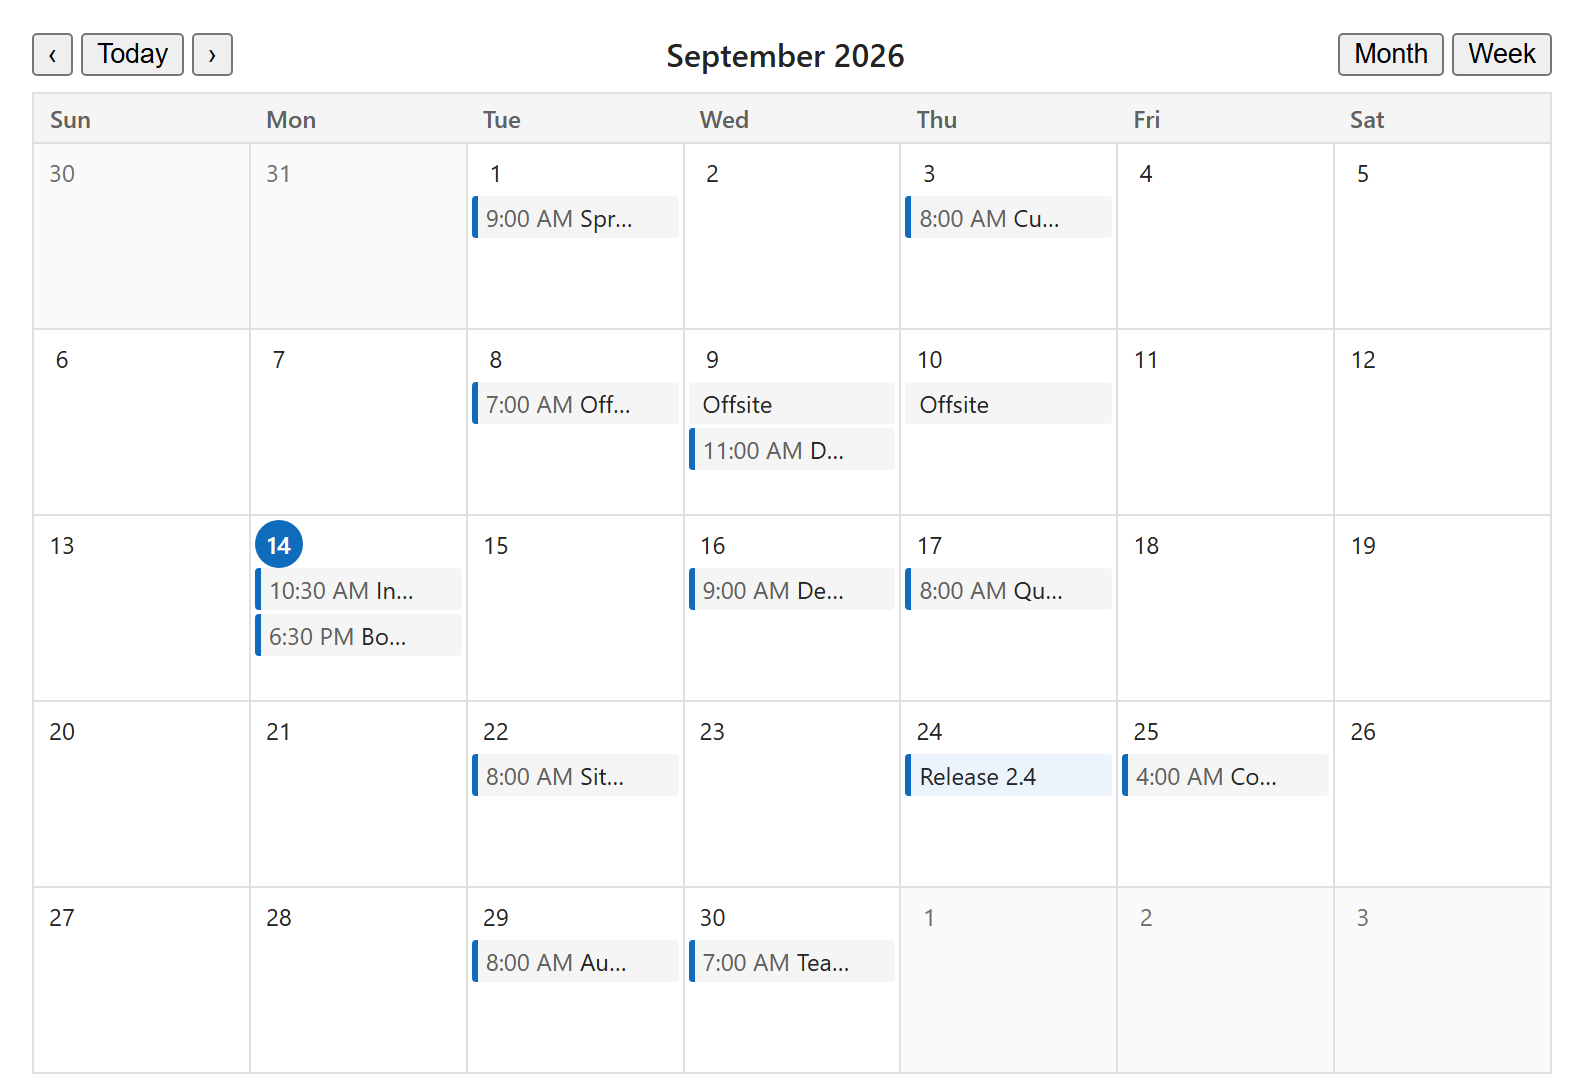
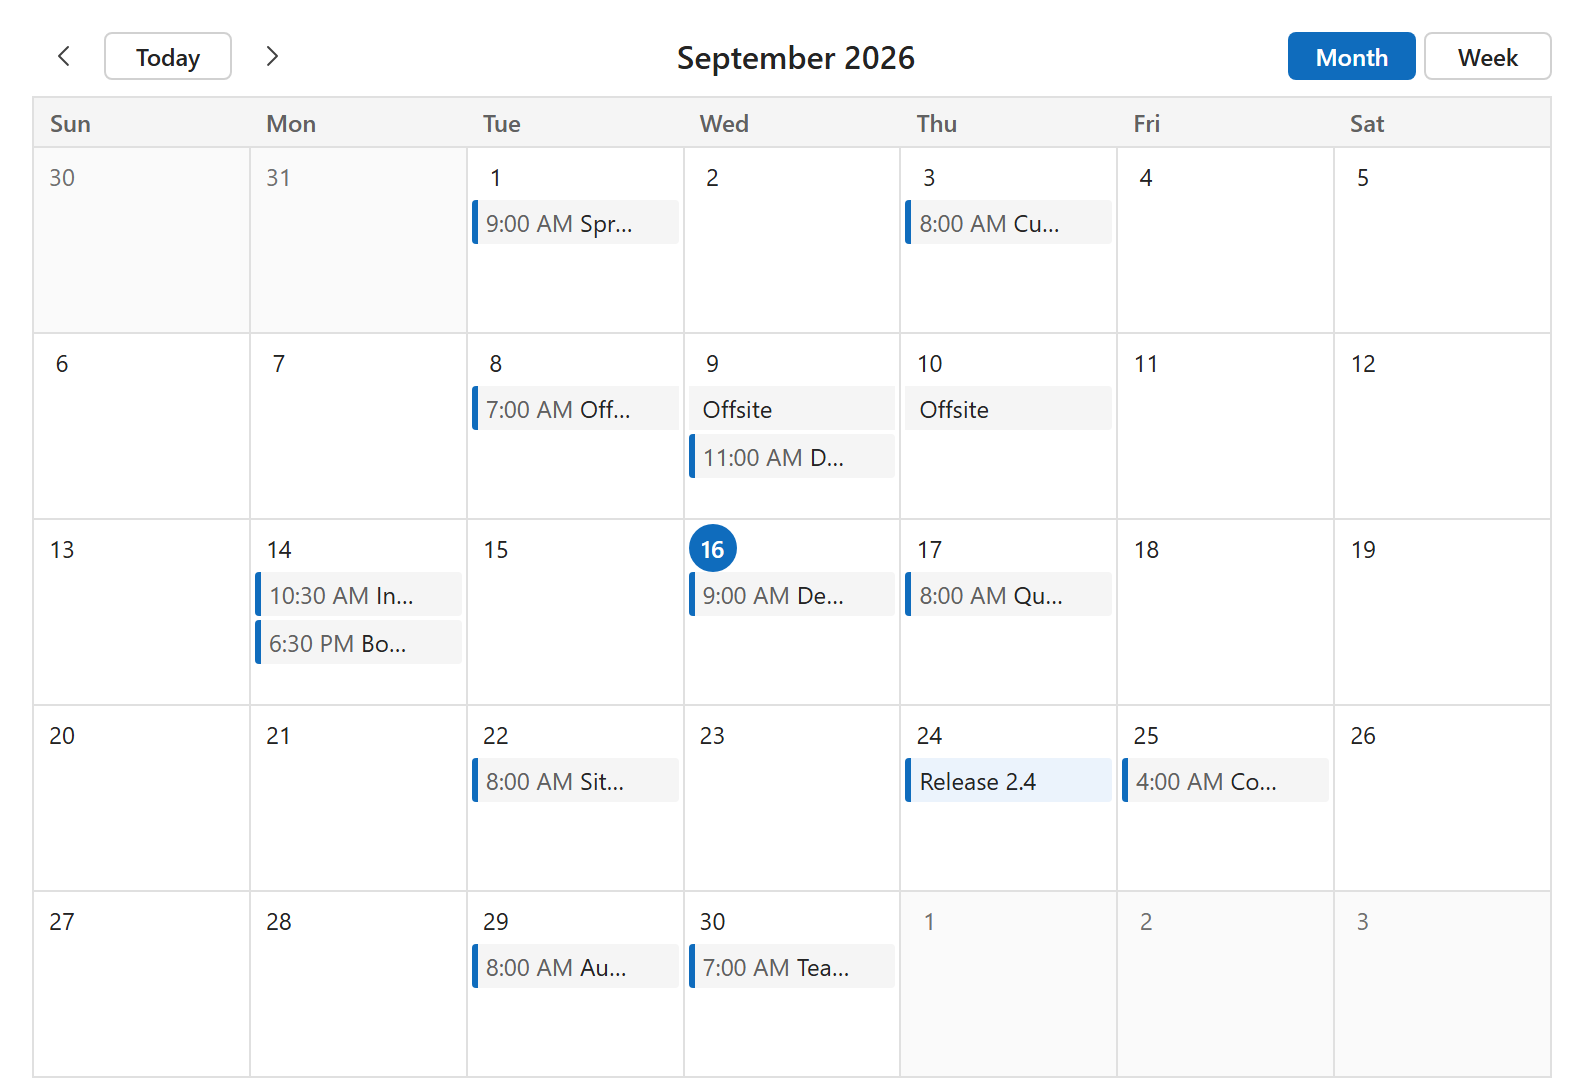
Screenshots retaken with Fluent-styled buttons; the Fluent stand-in draws Button the way Fluent does
The harness page's Button was a bare <button> with the browser's chrome,
and both screenshots on the hub carried it. fluent-stub.js now styles
.stub-button as a small Fluent 9 button — 24px, 12px semibold, the three
appearances — from the same tokens the control reads, every selector in
:where() so a control's own class on the element wins here as it wins
over Fluent's classes on a form. The first cut without :where() let the
stub's padding widen the invisible ⋯ button and narrow every chip.

diff --git a/dev/fluent-stub.js b/dev/fluent-stub.js
@@ -223,11 +223,40 @@
     }
 
     /*
-     * `Button`: a real `<button>` carrying its appearance as a class, so a
-     * stylesheet can be checked against the same element a form would have.
-     * Hover and pressed states are the browser's. `disableButtonEnhancement`
+     * `Button`: a real `<button>` carrying its appearance as a class, drawn
+     * the way Fluent 9 draws a small button — 24px, 12px semibold, the three
+     * appearances — from the same tokens the control's own stylesheet reads,
+     * with the light theme as the fallback. Every selector is wrapped in
+     * `:where()` so it has no specificity: a control's own class on the same
+     * element wins here exactly as it wins over Fluent's classes on a form. Without this the harness page
+     * showed the browser's default button chrome beside a control styled to
+     * Fluent, and screenshots taken from it carried that chrome onto the hub.
+     * Hover and pressed states are approximate; `disableButtonEnhancement`
      * is swallowed — it is a Fluent-internal hint, not an attribute.
      */
+    var BUTTON_STYLES = [
+        ':where(.stub-button){box-sizing:border-box;display:inline-flex;align-items:center;justify-content:center;gap:4px;',
+        'min-width:64px;height:24px;padding:0 8px;margin:0;font-family:var(--fontFamilyBase,"Segoe UI",system-ui,sans-serif);',
+        'font-size:12px;font-weight:600;line-height:16px;border-radius:4px;cursor:pointer;vertical-align:middle;',
+        'color:var(--colorNeutralForeground1,#242424);background:var(--colorNeutralBackground1,#fff);',
+        'border:1px solid var(--colorNeutralStroke1,#d1d1d1);}',
+        ':where(.stub-button):hover{background:var(--colorNeutralBackground1Hover,#f5f5f5);}',
+        ':where(.stub-button):disabled{color:var(--colorNeutralForegroundDisabled,#bdbdbd);border-color:var(--colorNeutralStrokeDisabled,#e0e0e0);background:var(--colorNeutralBackgroundDisabled,#f0f0f0);cursor:default;}',
+        ':where(.stub-button--primary){color:var(--colorNeutralForegroundOnBrand,#fff);background:var(--colorBrandBackground,#0f6cbd);border-color:transparent;}',
+        ':where(.stub-button--primary):hover{background:var(--colorBrandBackgroundHover,#115ea3);}',
+        ':where(.stub-button--subtle){color:var(--colorNeutralForeground2,#424242);background:transparent;border-color:transparent;min-width:24px;}',
+        ':where(.stub-button--subtle):hover{background:var(--colorSubtleBackgroundHover,#f5f5f5);color:var(--colorNeutralForeground2Hover,#242424);}',
+        ':where(.stub-button):focus-visible{outline:2px solid var(--colorStrokeFocus2,#000);outline-offset:1px;}',
+    ].join('');
+
+    if (global.document && !global.document.getElementById('fluent-stub-styles')) {
+        var styleTag = global.document.createElement('style');
+
+        styleTag.id = 'fluent-stub-styles';
+        styleTag.textContent = BUTTON_STYLES;
+        global.document.head.appendChild(styleTag);
+    }
+
     function Button(props) {
         var attributes = {};
 
